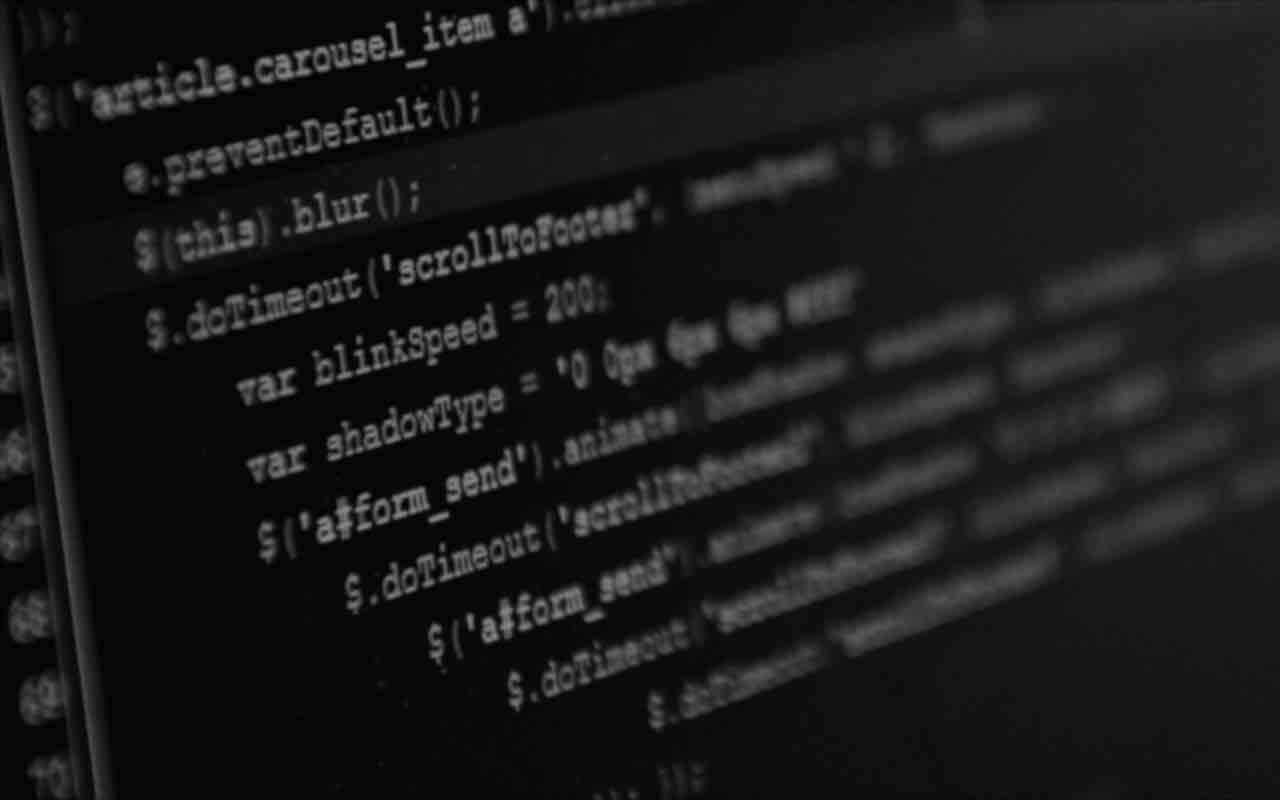
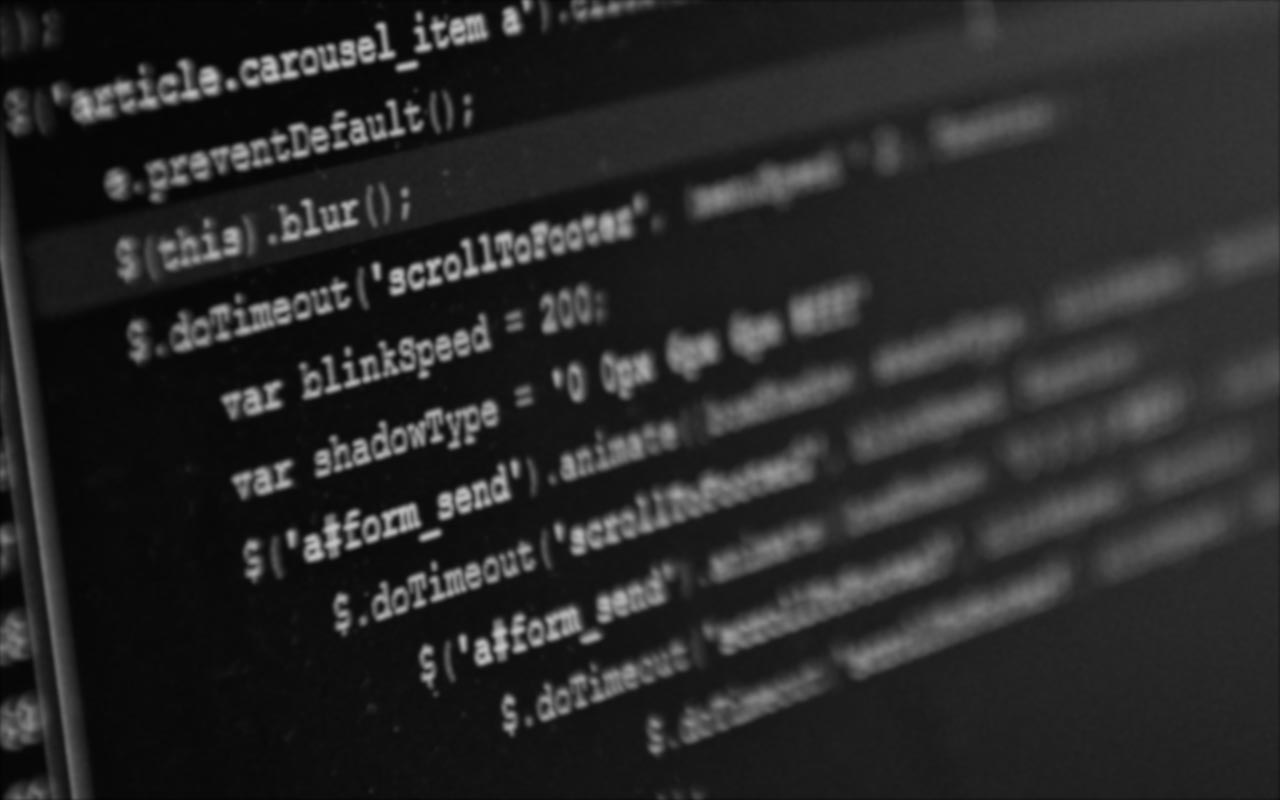
better quality images

diff --git a/src/html/header.html b/src/html/header.html
@@ -1,32 +1,33 @@
 <div class="background-preload-0 background-preload-1"></div>
 <div class="jumbotron {{background}} hidden-print">
-  <nav class="navbar">
-    <div class="container-fluid">
-      <div class="navbar-header">
-        <dropdown class="dropdown pull-right visible-xs-block">
-          <button dropdown-button class="nav navbar-toggle">
-            <span class="glyphicon glyphicon-menu-hamburger"></span>
-          </button>
-          <ul dropdown-menu class="dropdown-menu">
-            <li nav-link route="home">Home</li>
-            <li nav-link route="resume">Resume</li>
-            <li nav-link route="contact">Contact</li>
-          </ul>
-        </dropdown>
-        
-        <div class="navbar-brand">
-          <strong>&lt;ss&gt;</strong>
+  <div class="dark-filter"></div>
+    <nav class="navbar">
+      <div class="container-fluid">
+        <div class="navbar-header">
+          <dropdown class="dropdown pull-right visible-xs-block">
+            <button dropdown-button class="nav navbar-toggle">
+              <span class="glyphicon glyphicon-menu-hamburger"></span>
+            </button>
+            <ul dropdown-menu class="dropdown-menu">
+              <li nav-link route="home">Home</li>
+              <li nav-link route="resume">Resume</li>
+              <li nav-link route="contact">Contact</li>
+            </ul>
+          </dropdown>
+          
+          <div class="navbar-brand">
+            <strong>&lt;ss&gt;</strong>
+          </div>
         </div>
+        <ul class="nav navbar-nav navbar-right hidden-xs">
+          <li nav-link route="home">Home</li>
+          <li nav-link route="resume">Resume</li>
+          <li nav-link route="contact">Contact</li>
+        </ul>
       </div>
-      <ul class="nav navbar-nav navbar-right hidden-xs">
-        <li nav-link route="home">Home</li>
-        <li nav-link route="resume">Resume</li>
-        <li nav-link route="contact">Contact</li>
-      </ul>
-    </div>
-  </nav>
-  <header class="text-center">
-    <h1>{{title}}</h1>
-    <h2>{{subTitle}}</h2>
-  </header>
+    </nav>
+    <header class="text-center">
+      <h1>{{title}}</h1>
+      <h2>{{subTitle}}</h2>
+    </header>
 </div>

diff --git a/src/ts/components/header.ts b/src/ts/components/header.ts
@@ -14,7 +14,77 @@ import {Dropdown} from '../directives/dropdown';
 })
 @View({
   directives: [RouterLink, NavLink, Dropdown],
-  templateUrl: '/assets/html/header.html'
+  templateUrl: '/assets/html/header.html',
+  styles: [`
+    .jumbotron {
+      color: #ccc;
+      background-position: center center;
+      background-size: cover;
+      height: 600px;
+      -o-transition: background-image .5s ease-in-out;
+      -ms-transition: background-image .5s ease-in-out;
+      -moz-transition: background-image .5s ease-in-out;
+      -webkit-transition: background-image .5s ease-in-out;
+
+      transition: background-image .5s ease-in-out;
+      -webkit-animation: fade-in 1s;
+      -moz-animation: fade-in 1s;
+      -o-animation: fade-in 1s;
+      -ms-animation: fade-in 1s;
+      animation: fade-in 1s;
+    }
+    .background-preload-0 {
+      background: url('/assets/img/manhattan-skyline.jpg') no-repeat -9999px -9999px;
+    }
+    .background-preload-1 {
+      background: url('/assets/img/lines-of-code.jpg') no-repeat -9999px -9999px;
+    }
+    .background-preload-2 {
+      background: url('/assets/img/nyc-train.jpg') no-repeat -9999px -9999px;
+    }
+    .jumbotron.home {
+      background-image: url('/assets/img/manhattan-skyline.jpg');
+    }
+    .jumbotron.resume {
+      background-image: url('/assets/img/lines-of-code.jpg');
+    }
+    .jumbotron.contact {
+      background-image: url('/assets/img/nyc-train.jpg');
+    }
+
+    .jumbotron header {
+      margin-top: 150px;
+    }
+    @media(max-width: 768px) {
+      .jumbotron {
+        height: 400px;
+      }
+      .jumbotron header {
+        margin-top: 100px;
+      }
+    }
+
+    .jumbotron h1,
+    .jumbotron h2 {
+      font-weight: 300;
+    }
+
+    .dark-filter {
+      position: absolute;
+      top: 0;
+      left: 0;
+      right: 0;
+      height: 600px;
+      background-color: #000;
+      opacity: 0.3;
+
+    }
+
+    header {
+      position: relative;
+    }
+
+  `]
 })
 export class Header {
   constructor(private pageTitleService: PageTitleService) {

diff --git a/src/css/styles.css b/src/css/styles.css
@@ -3,59 +3,6 @@ body {
   font-weight: 300;
 }
 
-.jumbotron {
-  color: #ccc;
-  background-position: center center;
-  background-size: cover;
-  height: 600px;
-  -o-transition: background-image .5s ease-in-out;
-  -ms-transition: background-image .5s ease-in-out;
-  -moz-transition: background-image .5s ease-in-out;
-  -webkit-transition: background-image .5s ease-in-out;
-  transition: background-image .5s ease-in-out;
-
-  -webkit-animation: fade-in 1s;
-  -moz-animation: fade-in 1s;
-  -o-animation: fade-in 1s;
-  -ms-animation: fade-in 1s;
-  animation: fade-in 1s;
-}
-.background-preload-0 {
-  background: url('/assets/img/manhattan-skyline.jpg') no-repeat -9999px -9999px;
-}
-.background-preload-1 {
-  background: url('/assets/img/lines-of-code.jpg') no-repeat -9999px -9999px;
-}
-.background-preload-2 {
-  background: url('/assets/img/nyc-train.jpg') no-repeat -9999px -9999px;
-}
-.jumbotron.home {
-  background-image: url('/assets/img/manhattan-skyline.jpg');
-}
-.jumbotron.resume {
-  background-image: url('/assets/img/lines-of-code.jpg');
-}
-.jumbotron.contact {
-  background-image: url('/assets/img/nyc-train.jpg');
-}
-
-.jumbotron header {
-  margin-top: 150px;
-}
-@media(max-width: 768px) {
-  .jumbotron {
-    height: 400px;
-  }
-  .jumbotron header {
-    margin-top: 100px;
-  }
-}
-
-.jumbotron h1,
-.jumbotron h2 {
-  font-weight: 300;
-}
-
 @-webkit-keyframes fade-in {
   0% { opacity: 0; }
   100% { opacity: 1; }
